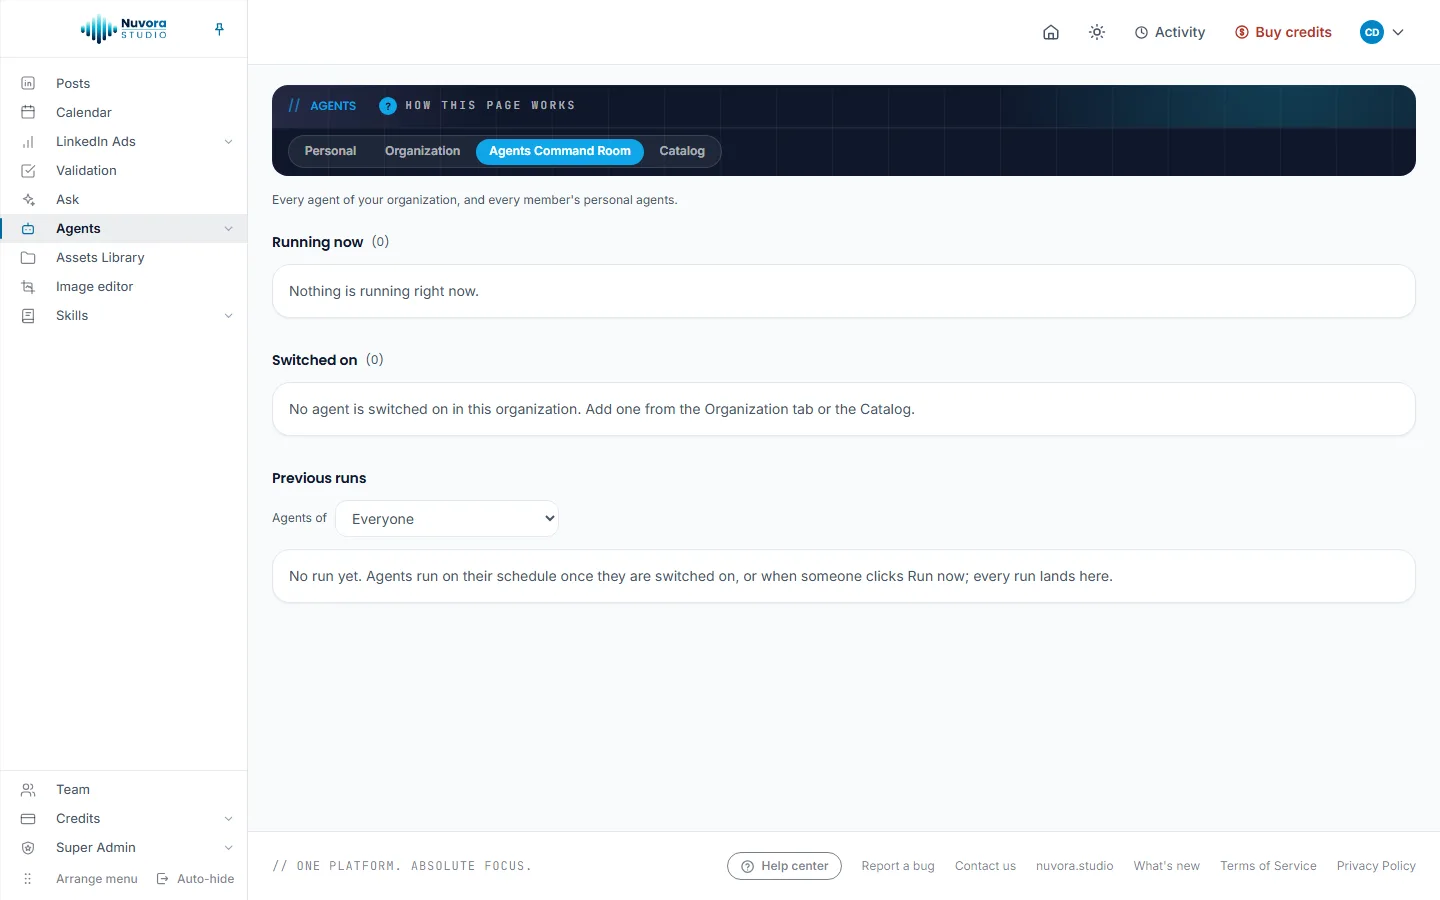
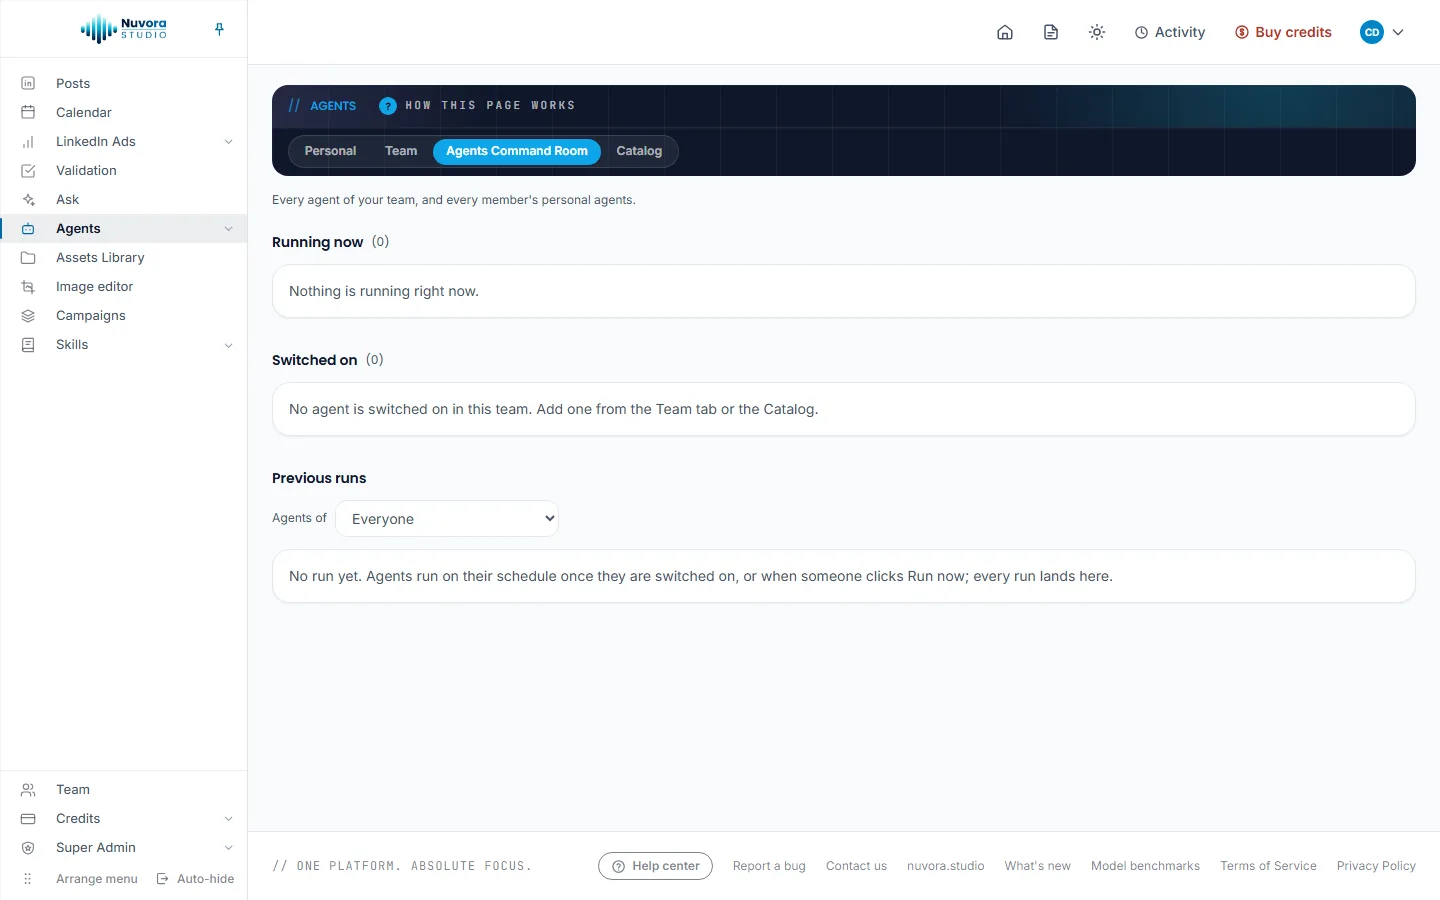
Help (EN/FR/ZH) synced from the app: the calendar shows your own accounts, Your team wording on agents and skills, captures retaken

diff --git a/src/content/help/zh/calendar.md b/src/content/help/zh/calendar.md
@@ -6,7 +6,7 @@ description: "日历：每篇已计划、已排期、已发布或被拒的 Linke
 excerpt: "看清哪些在计划中，哪些已排期待发，哪些已在 LinkedIn 上线，把一次发送挪到另一天，并处理发布监测发现的问题。"
 section: "linkedin"
 order: 3
-updated: 2026-10-16
+updated: 2026-10-18
 appPaths: ["/social/calendar/monthly", "/social/calendar/weekly", "/social/calendar/list"]
 audience: "团队所有成员；创作者和管理员负责规划和调整"
 related: ["linkedin-posts", "agents", "validation", "my-connections", "account-and-sign-in"]
@@ -40,6 +40,8 @@ sources: ["src/lib/app.ts", "src/pages/social/calendar/monthly.astro", "src/page
 
 三个视图旁边的 **No brand** 按钮就是你团队自己的计划。你的团队只有这一个，所以这里无需选择。
 
+旁边的账号按钮用来选择日历读取你的哪些 LinkedIn 账号：你的个人主页，以及你在 [我的连接](/zh/help/my-connections) 里连接的页面。账号属于连接它的人，所以只在同事账号上发出的帖子留在同事的日历里。**尚未关联账号** 指手动排期或手动发布的内容，**全选** 全部勾选，**全部取消** 一次清空，**管理我的账号** 在新标签页打开我的连接。你的选择记在这台浏览器里。
+
 ![2026 年 10 月的日历按月视图：横栏上有按月、周和列表，No brand 按钮、本页说明和新建发布内容，待办、计划、已发布和被拒四个计数器均为零，下方是空白的月历网格](/images/help/calendar-monthly.zh.webp)
 
 ## 颜色的含义
@@ -57,7 +59,7 @@ sources: ["src/lib/app.ts", "src/pages/social/calendar/monthly.astro", "src/page
 
 ## 按月
 
-整月以网格呈现，从周一到周日，今天会被圈出。每条发布是当天格子里的一张小卡片：网络、发出时间、一个表示进展的词（**计划**、**Sending** 或 **未能发出**）、负责人的姓名缩写，以及标题。把鼠标移到卡片上，可以看到它发往哪个账号；被拒的卡片还会显示原因。
+整月以网格呈现，从周一到周日，今天用青色边框和 **今天** 标签突出显示。已经过去的日期铺着灰色斜纹底，不能再新建发布，因为做过的就是做过了；上面的卡片仍可打开。每条发布是当天格子里的一张小卡片：网络、发出时间、一个表示进展的词（**计划**、**Sending** 或 **未能发出**）、负责人的姓名缩写，以及标题。把鼠标移到卡片上，可以看到它发往哪个账号；被拒的卡片还会显示原因。
 
 - **点击某一天的空白处**，在当天规划一条发布。
 - **点击在帖子中撰写的帖子**，会在帖子模块中打开它，停在它进行到的最后一步。

diff --git a/src/content/help/en/calendar.md b/src/content/help/en/calendar.md
@@ -5,7 +5,7 @@ description: "The Calendar: every LinkedIn post planned, scheduled, published or
 excerpt: "See what is planned, what is booked to go out and what is already live on LinkedIn, move a send to another day, and act on what the publishing watcher noticed."
 section: "linkedin"
 order: 3
-updated: 2026-10-16
+updated: 2026-10-18
 appPaths: ["/social/calendar/monthly", "/social/calendar/weekly", "/social/calendar/list"]
 audience: "Everyone in the team; creators and admins plan and move"
 related: ["linkedin-posts", "agents", "validation", "my-connections", "account-and-sign-in"]
@@ -39,6 +39,8 @@ The dark band at the top holds:
 
 The **No brand** button beside the three views is your team's own plan. Your team has only this one, so there is nothing to choose there.
 
+The account button next to it chooses which of your own LinkedIn accounts the calendar reads: your profile and the pages you connected on [My connections](/help/my-connections). An account belongs to whoever connected it, so a post that goes out only on a colleague's account stays on their calendar. **Not on an account yet** covers what is planned or published by hand, **Tick all** ticks them all, **Untick all** clears them, and **Manage my accounts** opens My connections in a new tab. Your choice is remembered in this browser.
+
 ![The Calendar on the Monthly view for October 2026: the band with Monthly, Weekly and List, the No brand button, How this page works and Add a publication, the To do, Planned, Published and Refused counters at zero, and the empty month grid](/images/help/calendar-monthly.webp)
 
 ## What the colors mean
@@ -56,7 +58,7 @@ Hours are shown in your own time zone, set in **Settings**. See [Account and sig
 
 ## Monthly
 
-The month as a grid, Monday to Sunday, today circled. Each publication is a small card on its day: the network, the hour it goes out, a word for where it stands (**Planned**, **Sending** or **Did not go out**), the initials of the person in charge, and the title. Point at a card to read the account it goes out on and, for a refused one, why.
+The month as a grid, Monday to Sunday, today framed in cyan with a **Today** tag. Days gone by sit on a grey hatched ground and take no new publication, since what is done is done; their cards still open. Each publication is a small card on its day: the network, the hour it goes out, a word for where it stands (**Planned**, **Sending** or **Did not go out**), the initials of the person in charge, and the title. Point at a card to read the account it goes out on and, for a refused one, why.
 
 - **Click an empty part of a day** to plan a publication on that day.
 - **Click a post written in Posts** to open it there, on the last step it reached.

diff --git a/src/content/help/en/agents.md b/src/content/help/en/agents.md
@@ -5,7 +5,7 @@ description: "The two standard agents, LinkedIn publishing watcher and LinkedIn 
 excerpt: "Agents re-read your LinkedIn publishing and your ad account on a schedule and tell you what changed, with the real dates and figures."
 section: "intelligence"
 order: 7
-updated: 2026-10-16
+updated: 2026-10-17
 appPaths: ["/agents", "/agents/organization", "/agents/catalog", "/agents/runs"]
 audience: "Everyone; Creators and Admins add, change and run agents; team agents are for Admins"
 related: ["linkedin-ads", "calendar", "linkedin-posts", "ask", "assets-library", "campaigns", "balance-and-payments", "your-team"]
@@ -13,11 +13,11 @@ shots:
   - file: "/images/help/agents-catalog.webp"
     route: "/agents/catalog"
     alt: "The agent Catalog: the Standard section with the LinkedIn publishing watcher and the LinkedIn Ads watcher, each with what it reads, View details and Add to my agents"
-    captured: 2026-10-04
+    captured: 2026-10-17
   - file: "/images/help/agents-runs.webp"
     route: "/agents/runs"
     alt: "The Agents Command Room tab, empty: Running now, Switched on and Previous runs with the Agents of filter"
-    captured: 2026-10-04
+    captured: 2026-10-17
   - file: "/images/help/agents-scope.webp"
     route: "/agents"
     clip: "the agent form, Scope tab"
@@ -220,7 +220,7 @@ A run that skipped the AI, because nothing changed or there was nothing to read,
 - **Create an agent from scratch** at the top and **Add an agent** at the bottom work as on My agents.
 - **Configure** picks what you set up, for example the team's agents, or one member's personal agents, managed on their behalf.
 
-Members see the team's agents on **My agents**, under **Your organization's agents**. **View details** shows one in full, and **Add to my agents** makes a copy of their own, which they change, run and schedule, and whose runs are billed to them. The team's agent stays as it is.
+Members see the team's agents on **My agents**, under **Your team's agents**. **View details** shows one in full, and **Add to my agents** makes a copy of their own, which they change, run and schedule, and whose runs are billed to them. The team's agent stays as it is.
 
 Keep the LinkedIn Ads watcher in personal agents: as a team agent it has no one's ad account to read.
 

diff --git a/src/content/help/en/skills.md b/src/content/help/en/skills.md
@@ -5,7 +5,7 @@ description: "What a skill is, how to take one from the Catalog, edit it or writ
 excerpt: "Reusable instructions the AI follows when it writes your LinkedIn posts, picked in the post's brief or on a question in Ask."
 section: "library"
 order: 9
-updated: 2026-10-04
+updated: 2026-10-17
 appPaths: ["/skills", "/skills/organization", "/skills/catalog"]
 audience: "Everyone; team skills are written by admins"
 related: ["linkedin-posts", "ask", "your-team"]
@@ -13,11 +13,11 @@ shots:
   - file: "/images/help/skills-my-skills.webp"
     route: "/skills"
     alt: "My skills: the Personal, Team and Catalog tabs, New skill, and the standard post format skills, each switched on, with Duplicate, Switch off, Edit and Delete"
-    captured: 2026-10-04
+    captured: 2026-10-17
   - file: "/images/help/skills-catalog.webp"
     route: "/skills/catalog"
     alt: "The Catalog with its search box, the All, Social networks, Marketing, Brand voice and Small business chips, and the Social networks skills marked In my skills"
-    captured: 2026-10-04
+    captured: 2026-10-17
 sources: ["src/lib/app.ts", "src/middleware.ts", "src/pages/skills/index.astro", "src/pages/skills/organization.astro", "src/pages/skills/catalog.astro", "src/components/SkillsNav.astro", "src/scripts/skillsPanel.ts", "src/scripts/skillsPicker.ts", "src/pages/api/skills/index.ts", "src/lib/skills-db.ts", "src/lib/skill-catalog.ts", "src/lib/social-format-skills.ts", "src/lib/kwp-skills.ts", "src/pages/api/social-content/draft.ts", "src/scripts/socialContent.ts", "src/components/panels/SocialContentPanel.astro", "src/pages/ask.astro", "src/scripts/askIntelligence.ts", "public/apps/nuvora/vocabulary.js"]
 ---
 

diff --git a/src/content/help/fr/client-space.md b/src/content/help/fr/client-space.md
@@ -7,7 +7,7 @@ description: "Pour les collaborateurs des clients d’une équipe : la connexio
 excerpt: "L’équipe avec laquelle vous travaillez a créé des posts LinkedIn pour votre entreprise. Voici comment les retrouver, les télécharger, les commenter et les approuver."
 section: "team"
 order: 11
-updated: 2026-10-04
+updated: 2026-10-17
 appPaths: ["/client", "/validation", "/validation/[id]", "/settings", "/invite"]
 audience: "Les accès client"
 related: ["validation", "account-and-sign-in", "your-team"]
@@ -59,7 +59,7 @@ Quand l’équipe sollicite votre approbation, une carte en haut de votre espace
 
 L’équipe reçoit votre décision par e-mail. Si vous avez renvoyé le contenu, elle y répond par une nouvelle version sur la même page, et vous en êtes de nouveau averti par e-mail.
 
-Vous pouvez commenter tout contenu de votre entreprise soumis à relecture, même lorsque le validateur est quelqu’un d’autre : écrivez dans le **Fil de discussion** et cliquez sur **Commentaire**. Les autres participants du fil reçoivent un e-mail. Voir [Validation](/fr/aide/validation).
+Vous pouvez commenter tout contenu de votre entreprise soumis à relecture, même lorsque le validateur est quelqu’un d’autre : écrivez dans le **Fil de discussion** et cliquez sur **Commenter**. Les autres participants du fil reçoivent un e-mail. Voir [Validation](/fr/aide/validation).
 
 L’entrée **Validation** du menu liste les mêmes fils, sous **En attente de moi**, **Mes demandes** et **Tous les contenus**. Vous ne voyez jamais que ceux de votre entreprise. Un accès client répond dans un fil ; il ne soumet jamais rien en validation.
 

diff --git a/src/content/help/fr/validation.md b/src/content/help/fr/validation.md
@@ -7,7 +7,7 @@ description: "Soumettez un post LinkedIn ou un fichier à l’approbation d’un
 excerpt: "Soumettez un post ou un fichier à approbation, gardez chaque version et chaque commentaire dans un même fil, et laissez un client approuver ce qui a été conçu pour lui."
 section: "linkedin"
 order: 5
-updated: 2026-10-04
+updated: 2026-10-17
 appPaths: ["/validation", "/validation/[id]"]
 audience: "Tout le monde ; les clients approuvent ce qui a été conçu pour eux"
 related: ["linkedin-posts", "your-team", "client-space", "assets-library"]
@@ -121,7 +121,7 @@ Le statut repasse à **En attente de validation**, et le validateur est prévenu
 
 ## Commenter
 
-Écrivez dans le **Fil de discussion**, puis cliquez sur **Commentaire**. Les autres participants du fil sont prévenus par e-mail.
+Écrivez dans le **Fil de discussion**, puis cliquez sur **Commenter**. Les autres participants du fil sont prévenus par e-mail.
 
 ## Changer de validateur
 

diff --git a/src/content/help/fr/log.md b/src/content/help/fr/log.md
@@ -74,7 +74,7 @@ Toute la période se charge d’un coup, jusqu’à 1 000 lignes par rubrique. 
 ## Ouvrir une ligne
 
 - Une exécution ouvre la page à laquelle elle appartient, comme une ligne d’**Activité**.
-- Une exécution d’agent ouvre l’onglet **Exécutions** des agents, sur cette exécution précise. Voir [Agents](/fr/aide/agents).
+- Une exécution d’agent ouvre l’onglet **Poste de commande des agents** (l’entrée **Exécutions** du menu Agents), directement sur cette exécution. Voir [Agents](/fr/aide/agents#le-poste-de-commande-des-agents).
 - Un e-mail déplie son texte sous sa ligne. Un nouveau clic sur l’objet le replie.
 - Une connexion ou une action payante ne mène nulle part : tout ce qu’il faut savoir figure sur la ligne.
 

diff --git a/src/content/help/zh/log.md b/src/content/help/zh/log.md
@@ -73,7 +73,7 @@ sources: ["src/pages/log.astro", "src/scripts/logPanel.ts", "src/lib/user-log.ts
 ## 打开一行
 
 - 运行：打开它所属的页面，和 **动态** 里的行一样。
-- 智能体运行：打开智能体的 **运行记录** 标签页，并定位到这一次运行。参见 [智能体](/zh/help/agents)。
+- 智能体运行：打开 **智能体指挥室** 标签页（即 **智能体** 菜单中的 **运行记录**），并定位到这一次运行。参见 [智能体](/zh/help/agents#智能体指挥室)。
 - 邮件：正文在这一行下方展开，再点一次主题收起。
 - 登录记录和付费操作：没有可去的地方，该知道的都写在这一行上。
 

diff --git a/src/content/help/en/log.md b/src/content/help/en/log.md
@@ -72,7 +72,7 @@ The whole period loads at once, up to 1,000 rows per section. When a section hol
 ## Open a row
 
 - A run opens the page it belongs to, like a row of **Activity**.
-- An agent run opens the **Runs** tab of Agents on that run. See [Agents](/help/agents).
+- An agent run opens the **Agents Command Room** tab (**Runs** in the Agents menu) on that run. See [Agents](/help/agents#the-agents-command-room).
 - An email unfolds its text under its row. Click the subject again to fold it.
 - A sign-in or a paid action has nowhere to go: everything there is to know is on the row.
 
